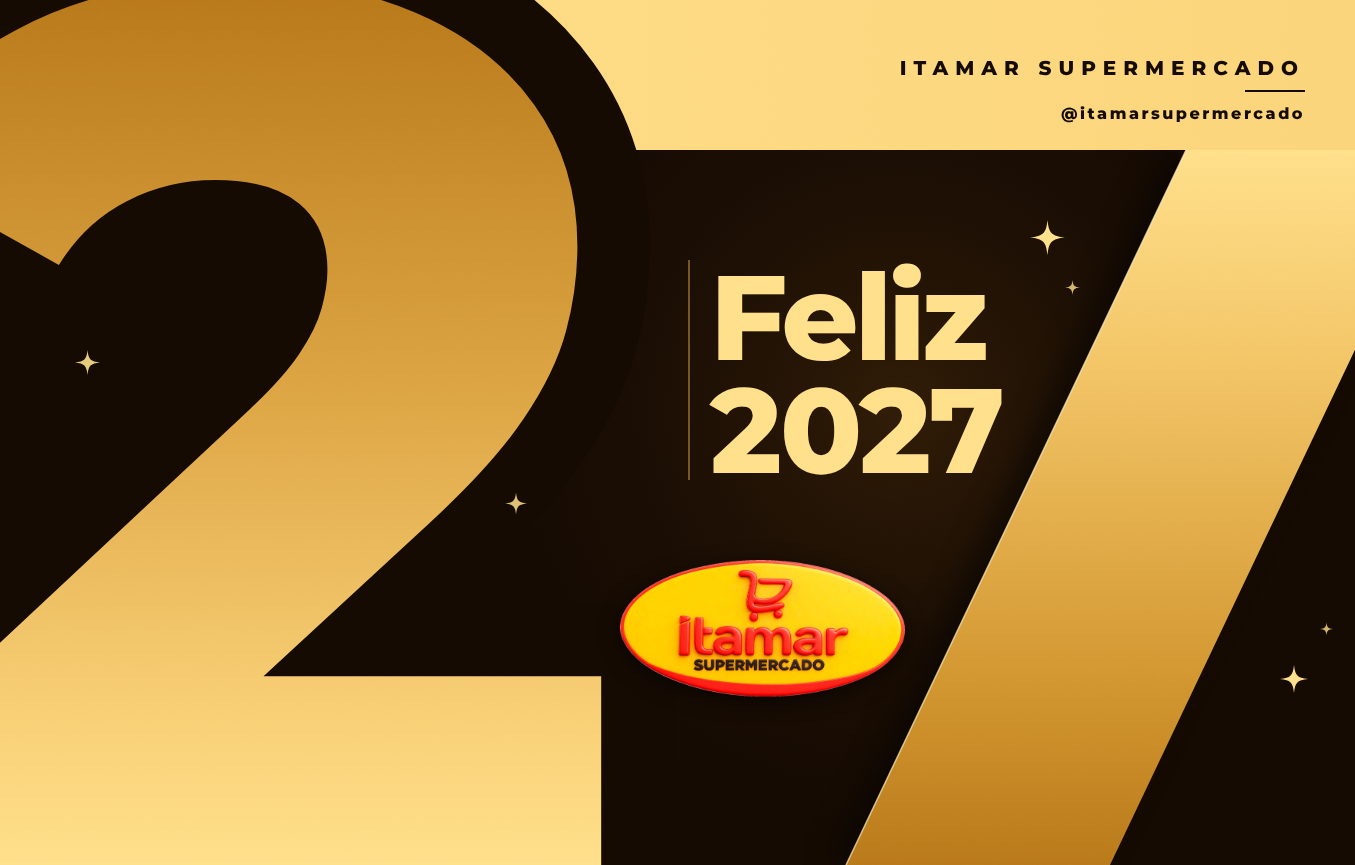
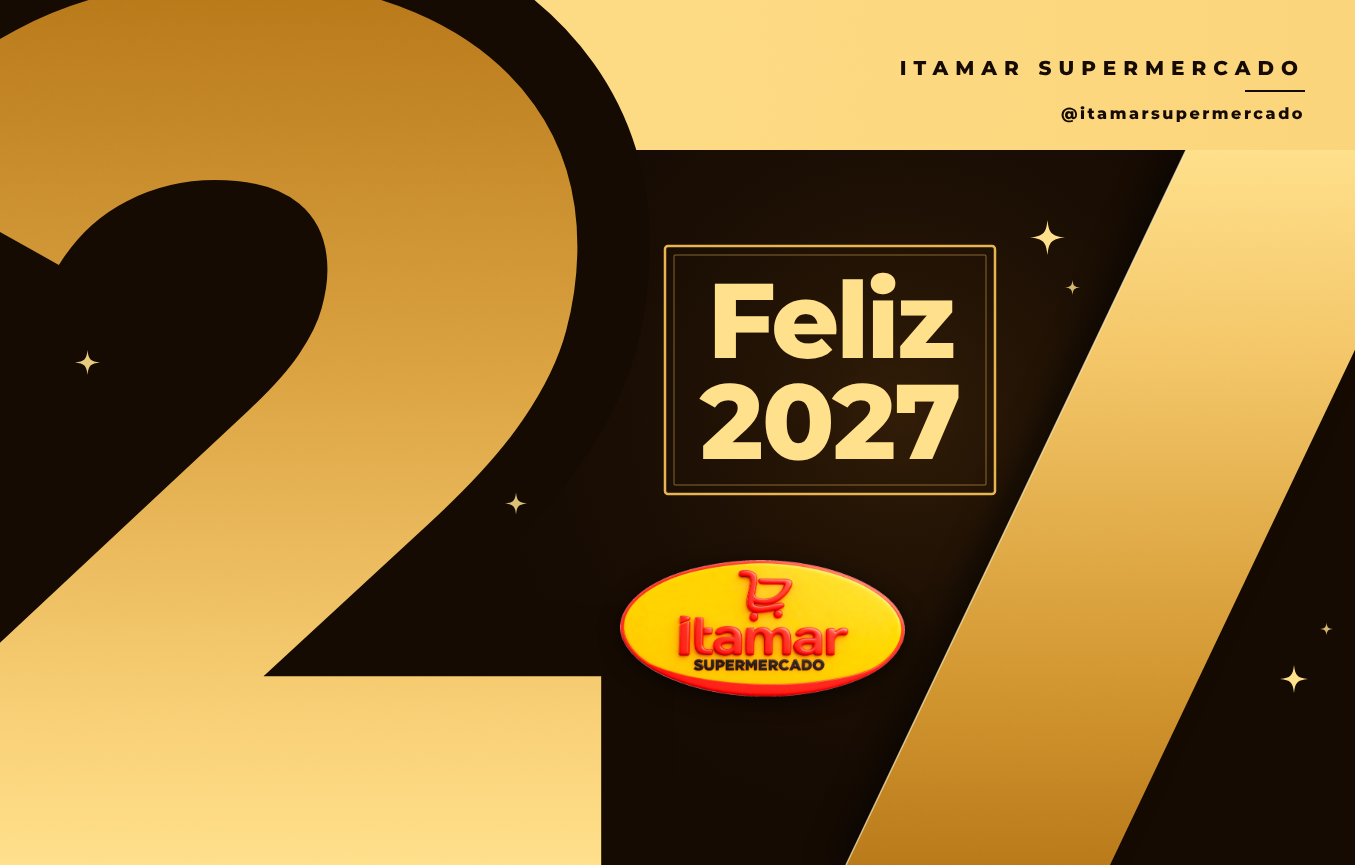
Itamar Ano Novo dourado: Feliz 2027 dentro de moldura
Claude-Session: https://claude.ai/code/session_01RAcsiBHQuv8tmVi8CEYS4U

Changed region(s): [[0.4649, 0.2809, 0.7439, 0.5931]]

diff --git a/clientes/itamar-supermercado/entregas/2026-11-10-ano-novo-2027-dourado/ano-novo-2027-dourado.html b/clientes/itamar-supermercado/entregas/2026-11-10-ano-novo-2027-dourado/ano-novo-2027-dourado.html
@@ -35,10 +35,11 @@ text{font-family:"Montserrat",sans-serif;font-weight:800}
   <!-- o 2 -->
   <text x="-235" y="1745" font-size="2500" font-weight="900" fill="url(#gDois)">2</text>
 
-  <!-- bloco de texto -->
-  <path d="M1378 520 V960" stroke="#E7B450" stroke-width="2.5" opacity=".7"/>
-  <text x="1420" y="720" font-size="240" fill="#FFE08A" letter-spacing="-8">Feliz</text>
-  <text x="1420" y="945" font-size="240" fill="#FFE08A" letter-spacing="-4">2027</text>
+  <!-- bloco de texto com moldura -->
+  <rect x="1330" y="492" width="660" height="496" rx="6" fill="none" stroke="#E7B450" stroke-width="5"/>
+  <rect x="1348" y="510" width="624" height="460" rx="2" fill="none" stroke="#E7B450" stroke-width="1.5" opacity=".7"/>
+  <text x="1660" y="716" text-anchor="middle" font-size="212" fill="#FFE08A" letter-spacing="-6">Feliz</text>
+  <text x="1660" y="918" text-anchor="middle" font-size="212" fill="#FFE08A" letter-spacing="-3">2027</text>
   <!-- assinatura no topo -->
   <text x="2610" y="150" text-anchor="end" font-size="40" fill="#150A02" letter-spacing="14">ITAMAR SUPERMERCADO</text>
   <path d="M2490 182 H2610" stroke="#150A02" stroke-width="4"/>
